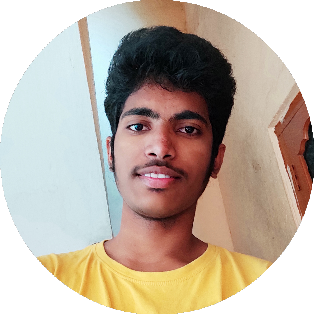
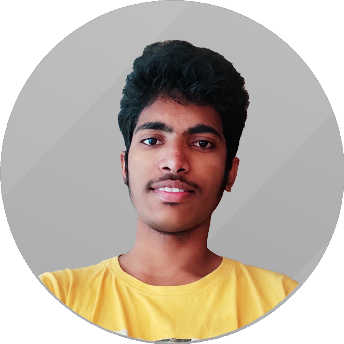
bg color add

diff --git a/index.html b/index.html
@@ -6,13 +6,14 @@
     <meta http-equiv="X-UA-Compatible" content="IE=edge">
     <meta name="viewport" content="width=device-width, initial-scale=1.0">
     <title>Ramakrishna Mandapati Portofolio</title>
+    <link rel="stylesheet" href="css/styles.css">
 </head>
 
 <body>
     <table cellpadding = 10>
         <tr>
             <td>
-                <img src="images/pic.png" width="150" alt="Ramakrishna">
+                <img src="images/pic.png" width="140" alt="Ramakrishna">
             </td>
             <td>
                 <h1>Ramakrishna Mandapati</h1>

diff --git a/contactme.html b/contactme.html
@@ -5,6 +5,7 @@
     <meta http-equiv="X-UA-Compatible" content="IE=edge">
     <meta name="viewport" content="width=device-width, initial-scale=1.0">
     <title>Contact Me</title>
+    <link rel="stylesheet" href="css/styles.css">
 </head>
 <body>
     <h1>My Contact Details</h1>

diff --git a/css/styles.css b/css/styles.css
@@ -1,0 +1,15 @@
+body {
+  background-color: #eaf6f6;
+}
+
+hr {
+  width: 5%;
+  border-style: none;
+  border-top-style: dotted;
+  border-width: 5px;
+  border-color: grey;
+}
+
+h1,h2,h3{
+    color: #66BFBF;
+}
